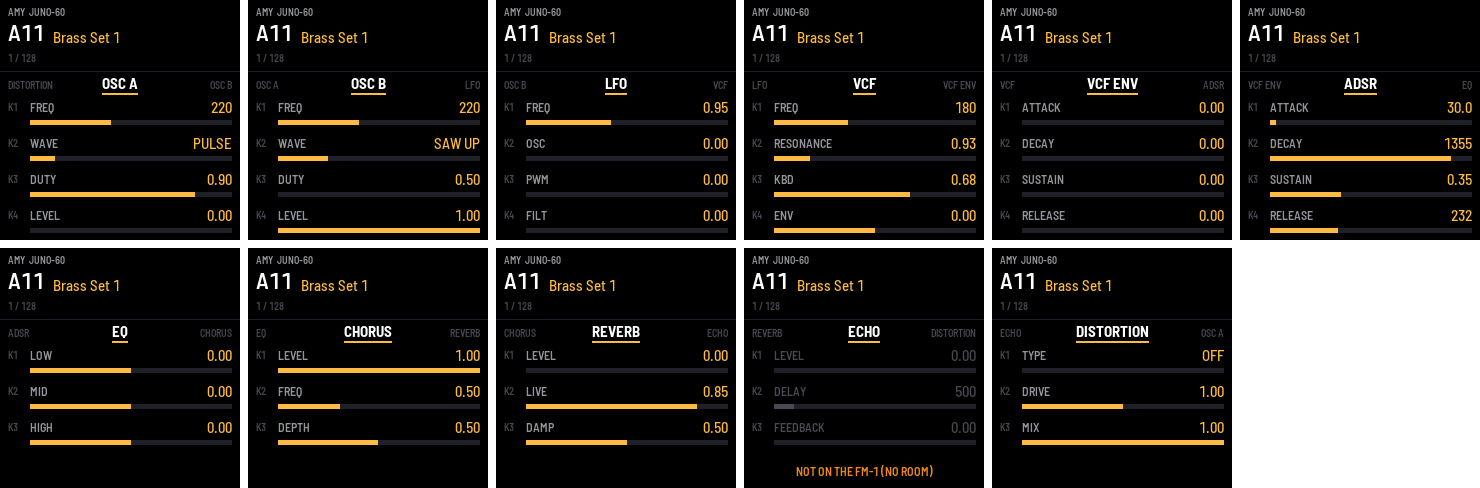
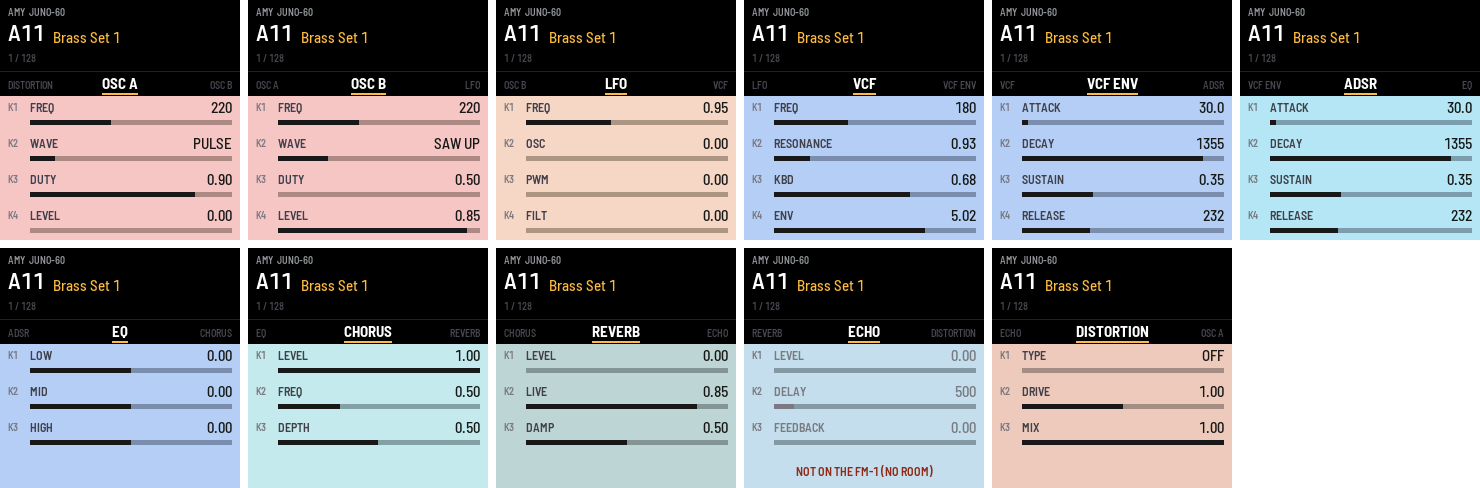
fm1-amy: pages in the editor's section colours; buttons pick pages
Each of the eleven knob pages now shows its knobs on its section's
colour in the AMYboard editor (amy_sections' bg_color at 75 % over the
editor's white page), in dark ink, under a black bar with the page's
name, as the editor draws its sections. The buttons under the knobs,
FX .. PLAY/STOP, jump to the pages in the panel's order (OSC A ..
DISTORTION) and the current page's button is lit; REC does nothing.
Tested on an FM-1.

- ui_amy.c: a colour per page (ED()), ink colours and a shaded bar
  track; button edges select the page; a static check that there is a
  button for each page.
- host/amy_pages.x0x: tap PLAY and FX, with screenshots and the lit
  buttons printed.
- README: the buttons in the controls table, the colours; the
  screenshot of the eleven pages, refreshed.

diff --git a/firmware/src/app/ui_amy.c b/firmware/src/app/ui_amy.c
@@ -10,7 +10,11 @@
  *
  *   PRESET   the patch (A11 .. B88)         SELECT   the page: OSC A, OSC B, LFO, VCF, VCF ENV,
  *   K1..K4   the page's knobs                        ADSR, EQ, CHORUS, REVERB, ECHO, DISTORTION
- *   OCT- / OCT+   the keys' octave (-2 .. +2)
+ *   OCT- / OCT+   the keys' octave (-2 .. +2)       or a button, in that order: FX .. PLAY/STOP
+ *                                                    (lit: the page shown; REC does nothing)
+ *
+ * Each page's knobs sit on its section's colour in the editor (amy_sections' bg_color, 75 % over
+ * the editor's white page), in dark ink; its name is on a black bar, as the editor's headers are.
  *
  * The pages, their knobs, ranges, curves and the AMY messages they send are the editor's
  * (amy_parameters.js), so a knob here does what the same knob there does; the editor's LFO "wave"
@@ -100,13 +104,29 @@ _Static_assert(sizeof KN / sizeof KN[0] == AMY_JUNO_NV, "tools/gen_amy_juno.py w
 typedef struct {
     const char *name;
     uint8_t first, n, patch;           /* patch: a patch change sets these knobs */
+    uint16_t bg;                       /* the editor's section colour over white */
 } page_t;
-static const page_t PG[] = {
-    {"OSC A", 0, 4, 1}, {"OSC B", 4, 4, 1}, {"LFO", 8, 4, 1}, {"VCF", 12, 4, 1}, {"VCF ENV", 16, 4, 1},
-    {"ADSR", 20, 4, 1}, {"EQ", 24, 3, 1}, {"CHORUS", 27, 3, 1}, {"REVERB", 30, 3, 0}, {"ECHO", 33, 3, 0},
-    {"DISTORTION", 36, 3, 0},
+/* amy_sections' rgba(r, g, b, 0.75) as the browser shows it on white: 0.75 c + 64 */
+#define ED(r, g, b) RGB((r) * 3 / 4 + 64, (g) * 3 / 4 + 64, (b) * 3 / 4 + 64)
+static const page_t PG[] = {           /* SELECT's order, and the buttons' (FX .. PLAY/STOP) */
+    {"OSC A", 0, 4, 1, ED(240, 180, 180)}, {"OSC B", 4, 4, 1, ED(240, 180, 180)},
+    {"LFO", 8, 4, 1, ED(240, 200, 180)},   {"VCF", 12, 4, 1, ED(150, 190, 240)},
+    {"VCF ENV", 16, 4, 1, ED(150, 190, 240)}, {"ADSR", 20, 4, 1, ED(150, 220, 240)},
+    {"EQ", 24, 3, 1, ED(150, 190, 240)},   {"CHORUS", 27, 3, 1, ED(180, 225, 225)},
+    {"REVERB", 30, 3, 0, ED(160, 200, 200)}, {"ECHO", 33, 3, 0, ED(176, 208, 232)},
+    {"DISTORTION", 36, 3, 0, ED(232, 184, 160)},
 };
+/* ink on the pale pages; a bar's track is its page colour darkened */
+#define INK_VAL RGB(24, 24, 28)
+#define INK_LBL RGB(64, 64, 72)
+#define INK_DIM RGB(120, 120, 128)
+#define INK_OFF RGB(150, 40, 30)
+static uint16_t shade(uint16_t c)      /* 70 % of an RGB565 colour */
+{
+    return (uint16_t)((((c >> 11) * 7 / 10) << 11) | ((((c >> 5) & 63u) * 7 / 10) << 5) | ((c & 31u) * 7 / 10));
+}
 #define PG_N ((int)(sizeof PG / sizeof PG[0]))
+_Static_assert(sizeof PG / sizeof PG[0] == B_PLAY - B_FX + 1, "a button for each page: FX .. PLAY/STOP");
 #define PG_ECHO 9                      /* shown, not played (see the top) */
 #define PRESET_REST_MS 150u
 
@@ -243,20 +263,20 @@ static void amy_draw(void)
         cv_blit(0, 72);
     }
     if (am.dirty & 4u) {
-        cv_begin(240, 144, C_BLACK);
+        cv_begin(240, 144, pg->bg);
         for (k = 0; k < pg->n; k++) {
             int i = pg->first + k, y = 36 * k + 4;
             const knob_t *c = &KN[i];
             sprintf(b, "K%d", k + 1);
-            cv_text(8, y + 1, &FONT_T, b, C_DIM);
-            cv_text(30, y, &FONT_XS, c->name, off ? C_DIM : C_GRAY);
-            text_r(232, y, &FONT_S, c->type == KT_SEL ? c->opt[(int)am.val[i]] : fmt3(b, am.val[i]), off ? C_DIM : C_HI);
-            cv_rect(30, y + 20, 202, 5, C_LINE);
+            cv_text(8, y + 1, &FONT_T, b, INK_DIM);
+            cv_text(30, y, &FONT_XS, c->name, off ? INK_DIM : INK_LBL);
+            text_r(232, y, &FONT_S, c->type == KT_SEL ? c->opt[(int)am.val[i]] : fmt3(b, am.val[i]), off ? INK_DIM : INK_VAL);
+            cv_rect(30, y + 20, 202, 5, shade(pg->bg));
             cv_rect(30, y + 20, c->type == KT_SEL ? 202 * (int)am.val[i] / (c->nopt - 1) : 202 * kn_pos(i, am.val[i]) / 127, 5,
-                    off ? C_DIM : C_HI);
+                    off ? INK_DIM : INK_VAL);
         }
         if (off)
-            text_c(120, 36 * 3 + 12, &FONT_XS, "NOT ON THE FM-1 (NO ROOM)", C_AMB);
+            text_c(120, 36 * 3 + 12, &FONT_XS, "NOT ON THE FM-1 (NO ROOM)", INK_OFF);
         cv_blit(0, 96);
     }
     am.dirty = 0;
@@ -296,6 +316,12 @@ static void amy_ui_frame(void)
         am.page = ((am.page + (int)d) % PG_N + PG_N) % PG_N;
         am.dirty |= 2u | 4u;
     }
+    for (k = 0; k < PG_N; k++)         /* B_FX .. B_PLAY are pages 0 .. 10, in the panel's order */
+        if (down & (1u << (B_FX + k))) {
+            am.page = k;
+            am.dirty |= 2u | 4u;
+            break;
+        }
     pg = &PG[am.page];
     for (k = 0; k < 4; k++)
         if ((d = plat_enc(KNOB[k])) != 0 && k < pg->n && am.page != PG_ECHO) {
@@ -318,5 +344,6 @@ static void amy_ui_frame(void)
     }
     if (am.dirty)
         amy_draw();
-    plat_leds((am.octave < 0 ? 1u << B_OCTDN : 0u) | (am.octave > 0 ? 1u << B_OCTUP : 0u), plat_keys());
+    plat_leds((1u << (B_FX + am.page)) | (am.octave < 0 ? 1u << B_OCTDN : 0u) | (am.octave > 0 ? 1u << B_OCTUP : 0u),
+              plat_keys());
 }

diff --git a/README.md b/README.md
@@ -32,13 +32,16 @@ none of X0X's groovebox is used.
 | OCT- / OCT+ | Shift the keys down or up an octave (-2 to +2; shown at the top right of the screen) |
 | PRESETS | Choose the preset, A11 to B88: the Juno-60's 128 factory patches (see [Presets](#presets)) |
 | SELECT | Choose the page of knobs, one of eleven (the screen shows the pages either side) |
+| FX to PLAY/STOP | Jump straight to a page, in the panel's order: FX OSC A, SEL OSC B, ENV LFO, LFO VCF, EDIT VCF ENV, GLO ADSR, HOME EQ, SAVE CHORUS, ARP REVERB, SEQ ECHO, PLAY/STOP DISTORTION. The page's button is lit; REC does nothing |
 | KNOB1 to KNOB4 | Change the page's settings (shown as K1 to K4 on the screen) |
 | MASTER | Volume |
 
 The pages are the sections of the [AMYboard editor](https://amyboard.com/editor)'s patch pane,
 and each knob is the editor's: the same name, range and curve, sending the same AMY message, so a
 knob on the FM-1 does exactly what the same knob in the editor does. (The editor's LFO also has a
-wave selector, which the FM-1 leaves out.)
+wave selector, which the FM-1 leaves out.) Each page shows its knobs on that section's colour
+in the editor (salmon for the oscillators, sky blue for the filter, tan for distortion and so on),
+under a black bar with the page's name, as the editor draws its sections.
 
 | Page | K1 | K2 | K3 | K4 |
 |---|---|---|---|---|
